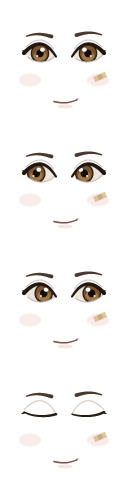
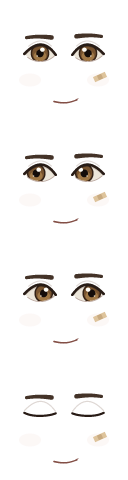
Hero: more neutral eyes
No lash flicks or winged lid line, eyes nearly level instead of upswept, straighter and
thicker brows, and only a faint warmth on the cheeks (no lip tint). The iPhone's
face2.png is re-exported from the same painter.

Claude-Session: https://claude.ai/code/session_017wHc6pzm3qmkG3DwHxhLJa

diff --git a/src/three/models/face2.ts b/src/three/models/face2.ts
@@ -7,10 +7,11 @@
 // Like the old face, the frame is chosen by moving the picture, so the eyes can
 // lead the head when it turns, the way the eyes of a toon hero look at things first.
 //
-// Lots of small choices aim at a candid, lived-in face rather than a mask:
-// almond eyes with a lid crease, the iris tucked a little under the upper lid,
-// two catchlights, one brow sitting a touch higher than the other, a lopsided
-// half smile, soft cheeks, and a sticking plaster from yesterday's dig.
+// Lots of small choices aim at a candid, lived-in face rather than a mask, and one
+// that reads as neither a boy nor a girl: level eyes with an even lid line (no
+// lashes or wing), the iris tucked a little under the upper lid, two catchlights,
+// straight, thick brows with one a touch higher than the other, a lopsided half
+// smile, and a sticking plaster from yesterday's dig.
 
 export const FACE2_W = 128;
 export const FACE2_H = 120;
@@ -87,26 +88,24 @@ interface Layer {
 /** One eye. `side` is -1 for the eye on the left of the picture, +1 for the right. `glance` moves the iris sideways. */
 function eye(cx: number, cy: number, side: number, glance: number, closed: boolean): Layer[] {
   const half = 15.4;
-  // The outer corner sits a little higher than the inner one.
-  const lift = (x: number) => ((x - cx) / half) * side * -1.6;
+  // Nearly level: an upswept outer corner reads as a cat-eye, so it only rises a touch.
+  const lift = (x: number) => ((x - cx) / half) * side * -0.4;
   const upper = (x: number) => {
     const t = (x - cx) / half;
-    return cy - 10.1 * (1 - t * t) * (1 - 0.12 * t * side) + lift(x);
+    return cy - 9.4 * (1 - t * t) * (1 - 0.12 * t * side) + lift(x);
   };
   const lower = (x: number) => {
     const t = (x - cx) / half;
-    return cy + 7.4 * Math.pow(Math.max(0, 1 - t * t), 0.85) + lift(x) * 0.5;
+    return cy + 7.0 * Math.pow(Math.max(0, 1 - t * t), 0.85) + lift(x) * 0.5;
   };
   const x0 = cx - half;
   const x1 = cx + half;
-  const skinShade: RGBA = [96, 62, 46, 70];
+  const skinShade: RGBA = [96, 62, 46, 52];
   if (closed) {
     const lid = (x: number) => (upper(x) * 0.25 + lower(x) * 0.75) - 1;
     return [
       { shape: stroke(curve(x0, x1, (x) => upper(x) - 3.2), 1.2), color: skinShade },
-      { shape: stroke(curve(x0 - 0.5, x1 + 0.5, lid), 1.6, 2.6), color: [40, 27, 21, 255] },
-      // Lashes at the outer corner.
-      { shape: stroke([[side < 0 ? x0 + 1 : x1 - 1, lid(side < 0 ? x0 + 1 : x1 - 1)], [side < 0 ? x0 - 2.5 : x1 + 2.5, lid(side < 0 ? x0 : x1) + 1.5]], 1.3), color: [40, 27, 21, 255] },
+      { shape: stroke(curve(x0 - 0.3, x1 + 0.3, lid), 2.2), color: [40, 27, 21, 255] },
     ];
   }
   const opening: Shape = (x, y) => x > x0 && x < x1 && y > upper(x) && y < lower(x);
@@ -114,7 +113,7 @@ function eye(cx: number, cy: number, side: number, glance: number, closed: boole
   const iy = cy - 0.6;
   return [
     // Lid crease, and the whites (slightly shaded under the upper lid).
-    { shape: stroke(curve(x0 + 2, x1 - 2, (x) => upper(x) - 3.9), 1.2), color: skinShade },
+    { shape: stroke(curve(x0 + 4, x1 - 4, (x) => upper(x) - 3.6), 1.1), color: skinShade },
     { shape: opening, color: [236, 230, 218, 255] },
     { shape: and(opening, (x, y) => y < upper(x) + 2.6), color: [198, 186, 174, 255] },
     // Iris: a dark rim, a warm hazel middle, lighter toward the bottom.
@@ -126,10 +125,9 @@ function eye(cx: number, cy: number, side: number, glance: number, closed: boole
     { shape: and(opening, (x, y) => y < upper(x) + 2.2 && (x - ix) ** 2 + (y - iy) ** 2 < 92), color: [40, 28, 20, 150] },
     // Catchlights.
     { shape: and(opening, ellipse(ix - 3.0 * side - 0.6, iy - 3.7, 2.3, 2.1)), color: [255, 253, 246, 255] },
-    { shape: and(opening, ellipse(ix + 2.8 * side, iy + 2.6, 1.0, 1.0)), color: [255, 253, 246, 210] },
-    // Upper lid line, heavier toward the outer corner, with a small flick of lashes.
-    { shape: stroke(curve(x0 - 0.6, x1 + 0.6, upper), side < 0 ? 4.2 : 2.1, side < 0 ? 2.1 : 4.2), color: [34, 23, 18, 255] },
-    { shape: stroke([[side < 0 ? x0 + 1 : x1 - 1, upper(side < 0 ? x0 + 1 : x1 - 1)], [side < 0 ? x0 - 2.4 : x1 + 2.4, upper(side < 0 ? x0 : x1) - 2.2]], 1.4, 0.6), color: [38, 26, 20, 255] },
+    { shape: and(opening, ellipse(ix + 2.8 * side, iy + 2.6, 0.8, 0.8)), color: [255, 253, 246, 170] },
+    // Upper lid line: an even line, with no wing or lashes at the corner.
+    { shape: stroke(curve(x0 - 0.3, x1 + 0.3, upper), 2.6), color: [40, 28, 22, 255] },
     // Lower lid, faint.
     { shape: stroke(curve(x0 + 3, x1 - 1, (x) => lower(x) + 0.6), 0.9), color: [110, 70, 52, 120] },
   ];
@@ -140,10 +138,10 @@ function brow(cx: number, cy: number, side: number, raise: number): Layer {
   const outer = cx + side * 13.5;
   const pts = curve(inner, outer, (x) => {
     const t = (x - inner) / (outer - inner);
-    // Rises from the inner end, peaks two thirds of the way out, then falls away.
-    return cy - 1.5 - raise - Math.sin(t * Math.PI * 0.82) * 3.2 + t * 1.4;
+    // Fairly straight and thick: a gentle rise, without a high, thin arch.
+    return cy - 1.5 - raise - Math.sin(t * Math.PI * 0.82) * 1.4 + t * 0.9;
   });
-  return { shape: stroke(pts, 3.8, 1.4), color: [58, 40, 28, 235] };
+  return { shape: stroke(pts, 4.6, 3.2), color: [58, 40, 28, 242] };
 }
 
 /** Paints all four frames. Returns RGBA pixels, top row first. */
@@ -158,20 +156,19 @@ export function paintFace2(): Uint8Array {
     const closed = frame === FACE2_FRAME.closed;
     const g = glances[frame];
     const layers: Layer[] = [
-      // Soft warmth on the cheeks.
-      { shape: ellipse(30, 80, 11, 6.5), color: [214, 116, 104, 34] },
-      { shape: ellipse(98, 80, 11, 6.5), color: [214, 116, 104, 34] },
+      // A faint warmth on the cheeks, just enough that the face isn't flat.
+      { shape: ellipse(30, 80, 11, 6.5), color: [204, 120, 100, 14] },
+      { shape: ellipse(98, 80, 11, 6.5), color: [204, 120, 100, 14] },
       // A sticking plaster high on one cheek.
       { shape: rect(100, 77, 13, 5.6, -0.42), color: [222, 196, 156, 255] },
       { shape: rect(100, 77, 4.6, 5.0, -0.42), color: [200, 170, 128, 255] },
       ...eye(L.x, L.y, -1, g, closed),
       ...eye(R.x, R.y, 1, g, closed),
-      brow(L.x, L.y - 16, -1, 0),
-      brow(R.x, R.y - 16, 1, 1.4),
+      brow(L.x, L.y - 15, -1, 0),
+      brow(R.x, R.y - 15, 1, 1.2),
       // Half smile: one corner lifts a little more than the other.
       { shape: stroke(curve(54, 77, (x) => { const t = (x - 54) / 23; return 101.5 + Math.sin(t * Math.PI) * 2.1 - t * 1.6; }), 1.7, 1.3), color: [118, 60, 50, 230] },
       { shape: stroke([[76.2, 99.6], [78.4, 98.4]], 1.2, 0.6), color: [118, 60, 50, 170] },
-      { shape: ellipse(65, 106.5, 7.5, 2.1), color: [196, 112, 100, 46] },
     ];
     const SS = 4;
     for (let py = 0; py < H; py++) {
